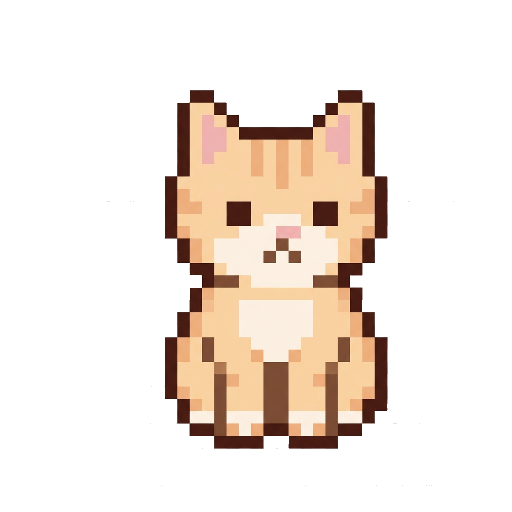
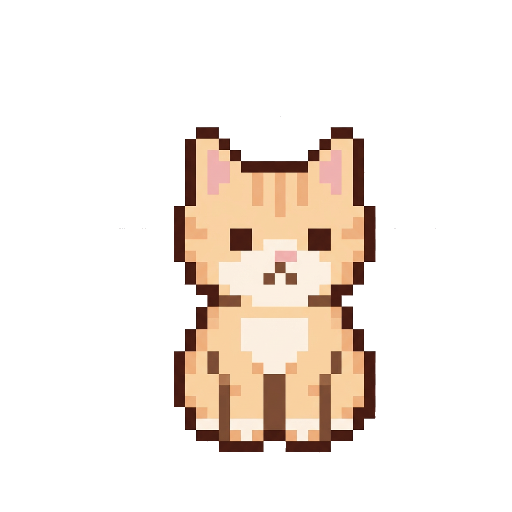
feat: 动画 P3 squash & stretch 形变 —— 跳跃有体积变化，不再只是整体平移
问题（R3）：单图微变换此前只支持 dy/scale_y/angle，动作表现为「整体上下移动」，看不出重量感；-46px 位移在 256 窗口只剩 23px ≈ 主体高的 10%。

改动（tools/gen_pet_frames.py）：
- transform() 新增 scale_x 支持，与 scale_y 同时给即构成 squash & stretch（压扁变宽、拉长变窄，视觉体积守恒）；
- SUBJECT_HEIGHT 0.86 → 0.78（440→400）：先解决空间约束 —— 画布 512、底部基线 491，主体 440 时向上只剩 51px，而「拉长 1.08 + 上移 34」需要约 72px，会顶出画布被裁切；降到 400 后向上留 91px。代价是桌宠在窗口内整体缩小约 9%（set_pet_size 仍可调）；
- EMOTION_RULES 重写：happy 蓄力压扁(0.90/1.07) → 起跳拉长(1.08/0.94) → 滞空 → 落地再压(0.93/1.05)；wake 先缩后伸展(0.95→1.10)；collapsed 压扁摊开(0.90/1.05)；其余情绪加极轻微纵向形变；
- 未做 shear / anchor：像素风格下 shear 易糊边，anchor 已被「底部对齐」隐含满足。

素材：28 帧全部按 392×399 主体重新生成。

测试（tests/unit/test_gen_pet_frames.py 9 项）：scale_x 只改宽度、压扁=更宽更矮、拉长=更窄更高、旋转不改尺寸、**每一帧的内容 bbox 不得贴画布边缘（防裁切）**、底部基线对齐、规则键名白名单（拼错的键会被静默忽略）、happy 必须同时含压扁帧与拉长帧（否则退化成整体平移）。

文档：方案 2 标注已实施，补空间约束推导、改动对照表与守护测试说明；顺带修正标题拼写 squat → squash。

回归：venv/Scripts/python.exe -m pytest tests -q → 292 passed。

Changed region(s): [[0.3125, 0.1562, 0.7812, 0.9062]]

diff --git a/tools/gen_pet_frames.py b/tools/gen_pet_frames.py
@@ -39,7 +39,10 @@ from PIL import Image
 # 与 ui/floating_pet.py 保持一致的画布与对齐参数
 CANVAS = 512
 BOTTOM_RATIO = 0.96
-SUBJECT_HEIGHT = int(CANVAS * 0.86)      # 主体高度（与 FRAME_TARGET_HEIGHT_RATIO 一致）
+SUBJECT_HEIGHT = int(CANVAS * 0.78)      # 主体高度
+# 说明：从 0.86 降到 0.78 是为 squash & stretch 留出**向上**空间 ——
+# 起跳帧同时要「拉长 1.10 倍」+「上移 34px」，主体 440 时会超出画布顶部被裁切。
+# 512 画布、底部基线 491 前提下，主体 400 时最极端帧顶部约 25px，安全。
 
 PROJECT_ROOT = os.path.dirname(os.path.dirname(os.path.abspath(__file__)))
 DEFAULT_SOURCE = os.path.join(PROJECT_ROOT, "ui", "resources", "animations", "cat_1.png")
@@ -49,24 +52,34 @@ OUT_ROOT = os.path.join(PROJECT_ROOT, "ui", "resources", "animations", "pet_png"
 #: dy: 垂直偏移（负=上移，模拟跳跃/呼吸）；scale_y: 纵向缩放（1.0 不变）；
 #: angle: 旋转角度（度）；每项对应一帧。
 EMOTION_RULES: Dict[str, List[Dict[str, float]]] = {
-    # 平静：轻微呼吸起伏（首尾相接，循环不跳）
-    "idle": [{"dy": 0}, {"dy": -3}, {"dy": -6}, {"dy": -3}],
-    # 刚醒：纵向拉伸 + 上移（伸懒腰）
-    "wake": [{"dy": 0}, {"dy": -8, "scale_y": 1.05}, {"dy": -15, "scale_y": 1.09},
-             {"dy": -5, "scale_y": 1.03}],
-    # 思考：歪头（角度加大到 6~11°）
+    # 平静：呼吸起伏 + 极轻微纵向形变（吸气时略高）
+    "idle": [{"dy": 0}, {"dy": -3, "scale_y": 1.01}, {"dy": -6, "scale_y": 1.02},
+             {"dy": -3, "scale_y": 1.01}],
+    # 刚醒：先缩一下再舒展拉长（伸懒腰的挤压拉伸）
+    "wake": [{"dy": 0, "scale_y": 0.95}, {"dy": -8, "scale_y": 1.06},
+             {"dy": -15, "scale_y": 1.10}, {"dy": -5, "scale_y": 1.03}],
+    # 思考：歪头
     "thinking": [{"dy": 0}, {"dy": -3, "angle": -6}, {"dy": -5, "angle": -11}],
-    # 困倦：最慢最小的呼吸
-    "sleep": [{"dy": 0}, {"dy": -3}, {"dy": -6}, {"dy": -3}],
-    # 低落：下沉 + 低头（正向旋转）
-    "sad": [{"dy": 0}, {"dy": 5, "angle": 4}, {"dy": 9, "angle": 7}],
-    # 开心：跳跃（幅度加大：512 画布 → 256 窗口约 23px 位移）
-    "happy": [{"dy": 0}, {"dy": -28}, {"dy": -46}, {"dy": -12}],
-    # 警觉：上移 + 放大（竖起来）
-    "alert": [{"dy": 0, "scale_y": 1.0}, {"dy": -8, "scale_y": 1.05},
+    # 困倦：极慢极小的呼吸
+    "sleep": [{"dy": 0, "scale_y": 0.99}, {"dy": -3, "scale_y": 1.01},
+              {"dy": -6, "scale_y": 1.02}, {"dy": -3, "scale_y": 1.01}],
+    # 低落：整体被压矮 + 低头
+    "sad": [{"dy": 0, "scale_y": 0.97},
+            {"dy": 5, "scale_y": 0.96, "angle": 4},
+            {"dy": 9, "scale_y": 0.94, "angle": 7}],
+    # 开心：蓄力压扁 → 起跳拉长 → 滞空 → 落地再压（体积守恒的 squash & stretch）
+    "happy": [{"dy": 0, "scale_y": 0.90, "scale_x": 1.07},
+              {"dy": -34, "scale_y": 1.08, "scale_x": 0.94},
+              {"dy": -52, "scale_y": 1.00, "scale_x": 1.00},
+              {"dy": -8, "scale_y": 0.93, "scale_x": 1.05}],
+    # 警觉：突然竖起来（纵向拉长、横向收窄）
+    "alert": [{"dy": 0, "scale_y": 1.0},
+              {"dy": -8, "scale_y": 1.06, "scale_x": 0.97},
               {"dy": -6, "scale_y": 1.03}],
-    # 疲惫：下沉 + 压扁（瘫下去）
-    "collapsed": [{"dy": 0}, {"dy": 12, "scale_y": 0.93}, {"dy": 18, "scale_y": 0.90}],
+    # 疲惫：瘫软压扁 + 横向摊开
+    "collapsed": [{"dy": 0, "scale_y": 1.0},
+                  {"dy": 12, "scale_y": 0.93, "scale_x": 1.03},
+                  {"dy": 18, "scale_y": 0.90, "scale_x": 1.05}],
 }
 
 
@@ -121,12 +134,20 @@ def normalize_subject(img: Image.Image) -> Image.Image:
 
 
 def transform(subject: Image.Image, rule: Dict[str, float]) -> Image.Image:
-    """对主体应用单帧变换（缩放 / 旋转），返回变换后的图像。"""
+    """对主体应用单帧变换（非均匀缩放 / 旋转），返回变换后的图像。
+
+    支持 ``scale_x`` / ``scale_y`` / ``angle``。**两者同时给**即构成
+    squash & stretch（挤压拉伸）：压扁时横向变宽、拉长时横向变窄，
+    保持视觉体积大致守恒 —— 这是让"跳跃"看起来有重量感的关键，
+    单纯的纵向平移看起来只是"整体上下移动"。
+    """
     frame = subject
+    scale_x = float(rule.get("scale_x", 1.0))
     scale_y = float(rule.get("scale_y", 1.0))
-    if abs(scale_y - 1.0) > 1e-6:
+    if abs(scale_x - 1.0) > 1e-6 or abs(scale_y - 1.0) > 1e-6:
+        new_w = max(1, int(round(frame.width * scale_x)))
         new_h = max(1, int(round(frame.height * scale_y)))
-        frame = frame.resize((frame.width, new_h), Image.NEAREST)
+        frame = frame.resize((new_w, new_h), Image.NEAREST)
     angle = float(rule.get("angle", 0.0))
     if abs(angle) > 1e-6:
         # expand=False + 底部对齐可避免旋转后凭空长高

diff --git a/tests/unit/test_gen_pet_frames.py b/tests/unit/test_gen_pet_frames.py
@@ -1,0 +1,102 @@
+"""`tools/gen_pet_frames.py` 的变换与画布约束测试。
+
+覆盖 P3（squash & stretch）引入的 ``scale_x`` 支持，以及一条容易踩的守护：
+**任何情绪的帧都不能超出画布被裁切** —— 起跳帧同时要"拉长 + 上移"，
+参数调大一点就会把猫头顶切掉，而肉眼在缩略图里不容易发现。
+"""
+
+import pytest
+from PIL import Image
+
+from tools.gen_pet_frames import (
+    BOTTOM_RATIO,
+    CANVAS,
+    EMOTION_RULES,
+    SUBJECT_HEIGHT,
+    place_on_canvas,
+    transform,
+)
+
+
+def _subject(width: int = 300, height: int = 0) -> Image.Image:
+    """造一个不透明矩形假主体（比真实猫图更严格：无透明边距可退让）。"""
+    return Image.new("RGBA", (width, height or SUBJECT_HEIGHT), (255, 120, 60, 255))
+
+
+class TestTransform:
+    """单帧变换：`scale_x` / `scale_y` / `angle`。"""
+
+    def test_identity_keeps_size(self):
+        assert transform(_subject(), {}).size == (300, SUBJECT_HEIGHT)
+
+    def test_scale_x_widens_only(self):
+        """只给 scale_x 时只影响宽度。"""
+        result = transform(_subject(), {"scale_x": 1.10})
+        assert result.width > 300
+        assert result.height == SUBJECT_HEIGHT
+
+    def test_squash_is_wider_and_shorter(self):
+        """压扁（squash）：横向变宽、纵向变矮 —— 体积守恒的挤压。"""
+        result = transform(_subject(), {"scale_y": 0.90, "scale_x": 1.07})
+        assert result.width > 300
+        assert result.height < SUBJECT_HEIGHT
+
+    def test_stretch_is_narrower_and_taller(self):
+        """拉长（stretch）：横向变窄、纵向变高。"""
+        result = transform(_subject(), {"scale_y": 1.08, "scale_x": 0.94})
+        assert result.width < 300
+        assert result.height > SUBJECT_HEIGHT
+
+    def test_angle_keeps_canvas_size(self):
+        """旋转使用 expand=False，尺寸不变（避免凭空长高导致画布溢出）。"""
+        result = transform(_subject(), {"angle": -11})
+        assert result.size == (300, SUBJECT_HEIGHT)
+
+
+class TestFramesFitCanvas:
+    """守护：所有情绪的每一帧都必须完整落在画布内。"""
+
+    def test_every_frame_stays_inside_canvas(self):
+        subject = _subject(width=int(CANVAS * 0.76))
+
+        for emotion, rules in EMOTION_RULES.items():
+            for index, rule in enumerate(rules, start=1):
+                frame = place_on_canvas(
+                    transform(subject, rule), dy=rule.get("dy", 0.0)
+                )
+                assert frame.size == (CANVAS, CANVAS), f"{emotion}_{index:02d} 画布尺寸不对"
+
+                bbox = frame.getbbox()
+                assert bbox is not None, f"{emotion}_{index:02d} 全透明（内容丢失）"
+                left, top, right, bottom = bbox
+                assert top > 0, (
+                    f"{emotion} 第 {index} 帧顶部被裁切（top={top}）—— "
+                    "检查该帧的 scale_y 与 dy 组合是否过大"
+                )
+                assert bottom < CANVAS, (
+                    f"{emotion} 第 {index} 帧底部被裁切（bottom={bottom}）"
+                )
+                assert left >= 0 and right <= CANVAS
+
+    def test_bottom_alignment_respected(self):
+        """未给 dy 的帧，主体底部应落在 BOTTOM_RATIO 基线上（脚不离地）。"""
+        subject = _subject()
+        frame = place_on_canvas(subject, dy=0)
+        assert frame.getbbox()[3] == int(CANVAS * BOTTOM_RATIO)
+
+
+class TestEmotionRules:
+    """规则数据本身的一致性。"""
+
+    def test_all_rules_have_known_keys_only(self):
+        """只允许 dy / scale_x / scale_y / angle —— 拼错键会被静默忽略。"""
+        allowed = {"dy", "scale_x", "scale_y", "angle"}
+        for emotion, rules in EMOTION_RULES.items():
+            for rule in rules:
+                assert set(rule) <= allowed, f"{emotion} 含未知键: {set(rule) - allowed}"
+
+    def test_happy_has_squash_and_stretch(self):
+        """happy 必须同时含"压扁"与"拉长"帧，否则只是整体平移。"""
+        happy = EMOTION_RULES["happy"]
+        assert any(r.get("scale_y", 1.0) < 1.0 for r in happy), "缺少压扁帧"
+        assert any(r.get("scale_y", 1.0) > 1.0 for r in happy), "缺少拉长帧"

diff --git a/doc/dev/方案-动画表现力提升.md b/doc/dev/方案-动画表现力提升.md
@@ -150,7 +150,7 @@ else:
 
 ---
 
-### 方案 2 · squat & stretch 形变（解决 R3）—— 需先扩展生成工具
+### 方案 2 · squash & stretch 形变（解决 R3）✅ 已实施（2026-11-10）
 
 **现状**：`tools/gen_pet_frames.py` 的变换只支持 `dy` / `scale_y` / `angle`。
 
@@ -173,6 +173,36 @@ else:
 
 **成本**：1 天（工具 + 规则 + 重新生成 + 渲染核对）。
 **验收**：静止帧对比时，能看出"体积变化"而不只是"整体平移"。
+
+**实施结果（2026-11-10，已落地并在渲染图上确认）**：
+
+先解决了一个**空间约束**：画布 512、底部基线 491，主体 440 时向上只剩 51px；
+而"拉长 1.08 倍 + 上移 34px"组合需要约 72px → **会顶出画布被裁切**。
+故 `SUBJECT_HEIGHT` 由 `0.86` 降到 **`0.78`**（440 → 400），向上留 91px。
+代价：桌宠整体在窗口内缩小约 9%（显示尺寸仍可用 `set_pet_size` 调整）。
+
+改动：
+
+| 项 | 改动 |
+|---|---|
+| `transform()` | 新增 `scale_x` 支持；与 `scale_y` 同时给即构成 **squash & stretch**（压扁时变宽、拉长时变窄，视觉体积守恒） |
+| `SUBJECT_HEIGHT` | `0.86` → `0.78`（腾出向上空间，见上） |
+| `EMOTION_RULES` | `happy` 重写为 蓄力压扁(0.90/1.07) → 起跳拉长(1.08/0.94) → 滞空 → 落地再压(0.93/1.05)；`wake` 先缩后伸展(0.95→1.10)；`collapsed` 压扁摊开(0.90/1.05)；其余情绪加极轻微纵向形变 |
+
+未做：`shear`（倾斜）与 `anchor`（变换锚点）—— 前者在像素风格下容易糊边，
+后者当前"底部对齐"已隐含满足需求，暂不引入。
+
+守护测试（`tests/unit/test_gen_pet_frames.py` 9 项）：
+
+- `scale_x` 只改宽度；压扁=更宽更矮；拉长=更窄更高；旋转不改尺寸；
+- **`test_every_frame_stays_inside_canvas`**：遍历所有情绪的每一帧，断言内容 bbox
+  **不贴画布边缘**（即未被裁切）—— 这条最实用，参数调大一点就会把猫头顶切掉，
+  而缩略图里不容易发现；
+- 底部基线对齐；规则键名白名单（拼错的键会被静默忽略）；
+- `happy` 必须同时含压扁帧与拉长帧（否则退化成整体平移）。
+
+**验收（渲染图已确认）**：`happy` 第 1 帧明显横向变宽、纵向压矮；第 2 帧拉长；
+第 4 帧落地再压。**待真机确认**动起来的感觉。
 
 ---
 
@@ -250,7 +280,7 @@ else:
 |---|---|---|---|---|
 | **P1** | 方案 1：逐帧时长 + 节奏曲线 ✅ **已实施（2026-11-10）** | R1 R2 | 已完成 | `happy`/`thinking`/`wake`/`alert` 能一眼认出"在做什么"（**待真机确认**） |
 | **P2** | 方案 3：特效时长对齐 ✅ **已实施（2026-11-10）** | R4 | 已完成 | `happy` 能看到 2~3 个爱心飘起并自然消散（**待真机确认**） |
-| **P3** | 方案 2：squash & stretch | R3 | 1 天 | 静帧对比能看出体积变化，不只是平移 |
+| **P3** | 方案 2：squash & stretch ✅ **已实施（2026-11-10）** | R3 | 已完成 | 静帧对比能看出体积变化，不只是平移（渲染图已确认；**待真机确认**） |
 | **P4** | 方案 5：状态机与调度 | 结构 | 2 天 | 拖拽不被打断、单次动作播完、情绪切换有依据 |
 | **P5** | 方案 4：补姿态图 | R5 | 2~3 天 | 各情绪有可辨识的形态差异（**仅在 P1~P3 不足时才做**） |
 
